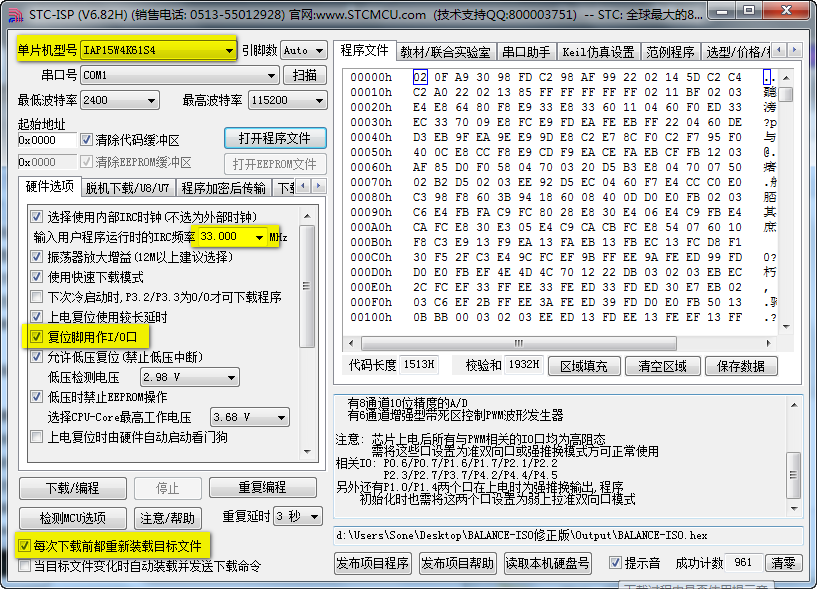
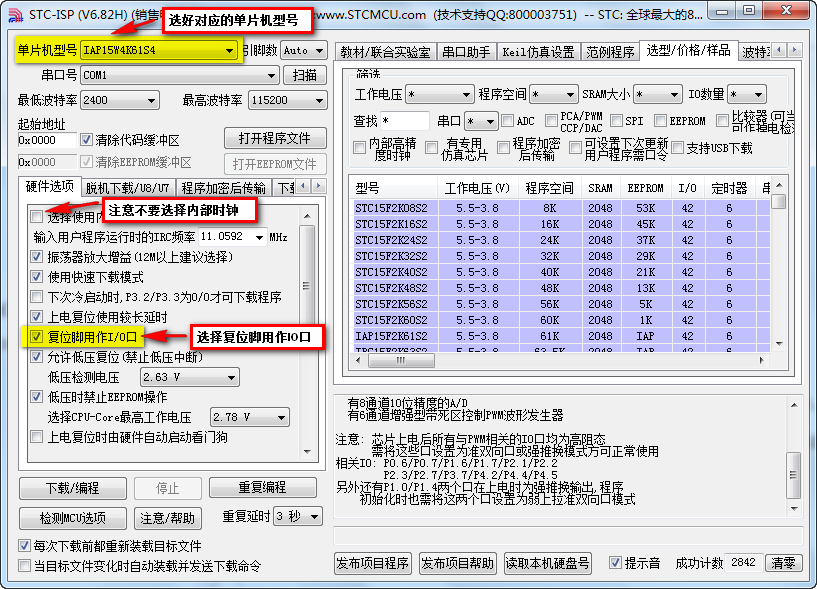
change content

diff --git a/wiki-MWbalanced - 副本.md b/wiki-MWbalanced - 副本.md
@@ -48,23 +48,50 @@ title: 喵呜百科
 
 <h2 id="course">新手教程</h2>
 * [windows下开发环境搭建-裸机版本开发环境](wiki/setup-environment.html)
+* [windows下开发环境搭建—Small RTOS51版本（待上传）]()
 * [新建Keil工程模板](wiki/new-project.html)
 * [LED指示灯实验](wiki/LED.html)
 * [串口通讯实验](wiki/uart.html)
 * [无线通讯实验（蓝牙）](wiki/bluetooth.html)
 * [传感器数据采集实验](wiki/mpu-6050.html)
-* [角度环PD调试指南](wiki/MWbalanced-angle-pd.html)
-* [速度环PI调试指南](wiki/MWbalanced-speed-pi.html)
+* [PWM驱动电机实验(待上传)]()
+* [编码器数据采集实验(待上传)]()
+* [多传感器数据融合(待上传)]()
+* [使用PID算法控制电机速度(待上传)]()
+* [角度环PD调试指南](wiki/angle-pd.html)
+* [速度环PI调试指南(待上传)]()
+* [方向环PD调试指南(待上传)]()
+* [红外巡线(待上传)]()
 
-<h2 id="basic">扫盲</h2>
-<p>本章节主要涉及部分基础知识。</p>
-* [为什么要用加速度计和陀螺仪两种传感器？](wiki/why-accel-gyro.html)
-* [两轮自平衡小车需要用到多少个维度数据？](wiki/how-many-dimensions.html)
+
+<h2>MWbalanced 2.0选型指南（第一版）</h2>
+* [MWbalanced(第一版)零部件购买指南](wiki/devices-buy.html)
+* [MWbalanced(第一版)元器件选型总览](wiki/devices-selection.html)
+* [MWbalanced(第一版)电机选型](wiki/motor-select.html)
+* [MWbalanced(第一版)电池选型](wiki/power-select.html)
+
+<h2>MWbalanced原理讲解</h2>
+* [MWbalanced硬件原理讲解](wiki//hardware-basic.html)
+* [MWbalanced软件开发经验总结](wiki/)
+* [MWbalanced通信协议](wiki/)
 
 <h2 id="exp">开发经验总结</h2>
 * [原地直立&原地旋转](wiki/MWbalanced-inplace-hold.html)
 * [动力效率&续航时间](wiki/MWbalanced-power-endurance.html)
 * [车体平衡调试](wiki/MWbalanced-debug.html)
+* [超声波和避障]()
+* [红外巡线]()
+* [摄像头和图传]()
+
+<h2 id="quadcopter-dev">两轮自平衡小车算法讲解</h2>
+<p>姿态解算是指把陀螺仪、加速度计等数据融合在一起，得到平衡小车的姿态数据，也叫做姿态融合。姿态解算的过程，涉及到传感器数据读取与滤波，四元数与旋转，姿态解算框架，长期融合/快速融合。</p>
+* [为什么要用加速度计和陀螺仪两个传感器？](wiki/why-accel-gyro.html)
+* [两轮自平衡小车需要用到多少个维度数据？](wiki/how-many-dimensions.html)
+* [互补滤波器](wiki/complementary-filter.html)
+* [软件姿态解算]()
+* [硬件姿态解算]()
+* [三轴陀螺仪和三轴加速度计MPU6050]()
+* [平衡车PID控制算法](wiki/algorithm-pid.html)
 
 <h2 id="small-rtos51">Small RTOS51</h2>
 <p>为了满足各个层次小伙伴的需求和体现出我们的努力，后续会试着移植Small RTOS51实时操作系统内核。Small RTOS51是陈明计先生编写的一个实时操作系统，并著有《嵌入式实时操作系统Small RTOS51原理及应用》。SmallRTOS51适合在小RAM/小FLASH单片机上运行。</p>
@@ -74,6 +101,11 @@ title: 喵呜百科
 * [通信协议]()
 
 <h2 id="other">其他</h2>
-* [开创历史的Segway](wiki/segway.html)
-* [两轮平衡车历史回顾](wiki/self-balanced-history.html)
 * [MPU-6050芯片解剖](wiki/mpu6050-anatomy.html)
+
+<h2 id="basic">扫盲</h2>
+<p>本章节主要讲解平衡车历史和基础知识。</p>
+* [两轮平衡车历史回顾](wiki/self-balanced-history.html)
+* [开创历史的Segway](wiki/segway.html)
+* [为什么要用加速度计和陀螺仪两种传感器？](wiki/why-accel-gyro.html)
+* [两轮自平衡小车需要用到多少个维度数据？](wiki/how-many-dimensions.html)

diff --git a/wiki/devices-buy-2.0.md b/wiki/devices-buy-2.0.md
@@ -1,0 +1,78 @@
+---
+layout: wiki
+title: MWbalanced零部件购买指南
+---
+
+# {{ page.title }}
+
+> 作者：Songyimiao
+
+为了方便大家DIY自己的MWbalanced，我们整理出重要的零部件&元器件的淘宝购买地址，供大家参考或购买。
+
+Tips:大家也可以直接在淘宝上搜索关键词“MWbalanced”，我们已上架大部分零部件&元器件，方便大家一站式采购，节省快递费用。
+
+## 电机
+
+GA25电机（带11CPR霍尔编码器）   
+
+部分指标：
+
+* 额定电压：6V
+* 转速：165RPM
+* 编码器：11CPR霍尔编码器(AB相正交输出)
+
+购买地址：[淘宝链接](https://item.taobao.com/item.htm?spm=a230r.1.14.22.R8Fz9N&id=530768792280&ns=1&abbucket=15#detail)
+
+## 轮子
+
+4毫米D型孔橡胶车轮 
+
+购买地址：[淘宝链接](https://item.taobao.com/item.htm?spm=a230r.1.14.37.R8Fz9N&id=530721850842&ns=1&abbucket=15#detail)
+
+
+## 电池
+
+MWbalanced2.0使用定制的锂电池，容量2000mAh，额定电压7.4，充满电压8.4V，持续放电电流4A。
+
+特点：高容量,高放平台,工作时间长,寿命长。
+
+购买地址：[淘宝链接](https://item.taobao.com/item.htm?spm=a1z09.2.0.0.4wwaGV&id=15616162951&_u=1qnqfnbf221)
+
+适配的智能快速充电器：[淘宝链接](https://item.taobao.com/item.htm?spm=a230r.1.14.42.R8Fz9N&id=530722106272&ns=1&abbucket=15#detail)
+
+## 蓝牙模块
+
+MWbalanced2.0使用蓝牙模块SPP-C，性价比最高。
+
+购买地址：[淘宝链接](https://item.taobao.com/item.htm?spm=a230r.1.14.17.R8Fz9N&id=530271728357&ns=1&abbucket=15#detail)
+
+## MCU
+
+控制芯片为STC15系列1T 8051单片机。IAP15W4K61S4，4K SRAM，8051内核，33MHz主频，61K Flash，LQFP48封装。
+
+>STC的IAP系列单片机，和STC系列单片机的不同之处在于，整颗MCU的Flash空间，用户可在自己的程序中进行改写，开发用户自己的ISP程序。例如改写用户bootloader，实现无线升级固件等功能。
+
+购买地址：[淘宝链接](https://item.taobao.com/item.htm?spm=a1z10.1-c.w4004-2285046357.14.Vgn8wp&id=526103204556)
+
+## 传感器
+
+MPU6050，三轴陀螺仪+三轴加速度传感器，自带DMP四元数输出，内部温度补偿。
+
+## 电机驱动
+
+MWbalanced1.0选用电机驱动芯片TB6612FNG。
+
+MWbalanced1.0选用电机驱动芯片MC33186，Freescale生产，单H桥芯片，工作电压5V-28V，兼容TTL/CMOS输入，PWM频率可达20kHz，输出电流限制在6.5A±20%，输出电流超过8A时启动输出短路保护。
+
+MC33186淘宝链接：[淘宝链接](https://item.taobao.com/item.htm?spm=a1z10.1-c.w4004-2285046357.4.Vgn8wp&id=526047719618)
+
+## USB-UART桥接器
+
+CP2102，是一款高度集成的USB-UART桥接器，用于固件下载，参数调试。
+
+
+
+
+
+
+

diff --git a/wiki/usb-download-firmware.md b/wiki/usb-download-firmware.md
@@ -7,14 +7,16 @@ title: 通过USB烧写固件
 
 > 作者：Songyimiao
 
+注：本文适用于MWbalanced2.0。
+
 烧写固件所需的东西：
 
 * Micro-USB数据线；
 * STC-ISP烧录工具；
 
-MWbalanced控制板带有一颗USB-TTL芯片CP2102，所以可以直接通过USB接口下载或更新固件。
+MWbalanced2.0带有一颗USB-TTL芯片CP2102，所以可以直接通过USB接口下载或更新固件。
 
-MWbalanced使用STC15单片机内部时钟@33M，所以要对STC-ISP做以下设置，如图1所示。
+MWbalanced2.0使用的是外部晶振@20M，而且使用了STC15单片机内部复位电路，所以在烧写固件时，要先对STC-ISP做以下设置，再烧写操作，如图1所示。
 
 ![](/img/wiki/stc-isp-download.png)
 
